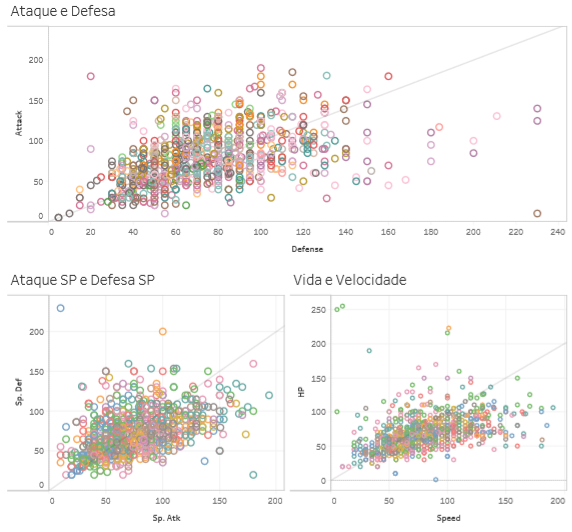
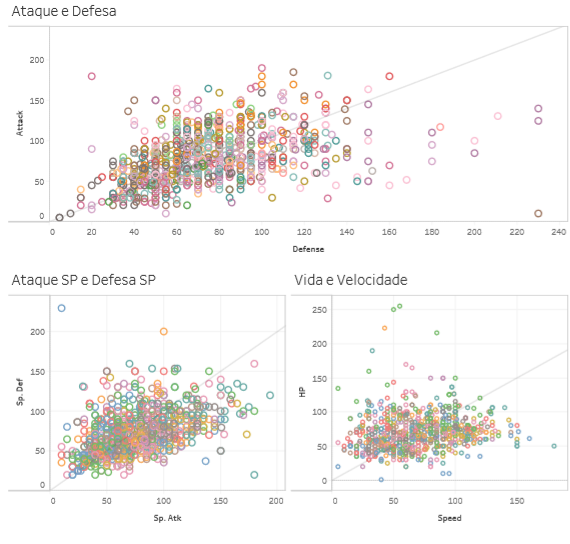
correção speed

diff --git a/Gestor Pokémon/conjunto.py b/Gestor Pokémon/conjunto.py
@@ -71,7 +71,7 @@ while(True):
     defense=int(driver.find_element_by_xpath('//*[@id="pokedex"]/tbody/tr['+str(c)+']'+'/td[7]').text)  #Defense
     spatk=int(driver.find_element_by_xpath('//*[@id="pokedex"]/tbody/tr['+str(c)+']'+'/td[8]').text)    #Sp. Atk
     spdef=int(driver.find_element_by_xpath('//*[@id="pokedex"]/tbody/tr['+str(c)+']'+'/td[9]').text)    #Sp. Def
-    speed=int(driver.find_element_by_xpath('//*[@id="pokedex"]/tbody/tr['+str(c)+']'+'/td[6]').text)    #Speed
+    speed=int(driver.find_element_by_xpath('//*[@id="pokedex"]/tbody/tr['+str(c)+']'+'/td[10]').text)    #Speed
 
     if ide in ger:          #Se é o primeiro pokémon de uma geração
         g=g+1               #Avançamos nossa geração

diff --git a/Gestor Pokémon/README.md b/Gestor Pokémon/README.md
@@ -85,7 +85,7 @@ Mas todos eles compartilham características em comuns:
   - Geração.
  
  Nela podemos inferir visualmente algumas coisas como:
- - A maior parte dos pokémons possuem mais velocidade que vida;
+ - Existe um equilibrio entre pokémons com mais vida que velocidade e o contrário;
  - A maior parte dos pokémons possuem Sp. Atk entre 25 e 150, e Sp. Def entre 25 e 100;
  - A maior parte dos pokémons possuem 100 ou menos de defesa;
  - O pokémon com o ataque mais alto que também possui uma defesa equilibrada é o Groudon em sua forma Primal, com 180 e 160 respectivamente.
